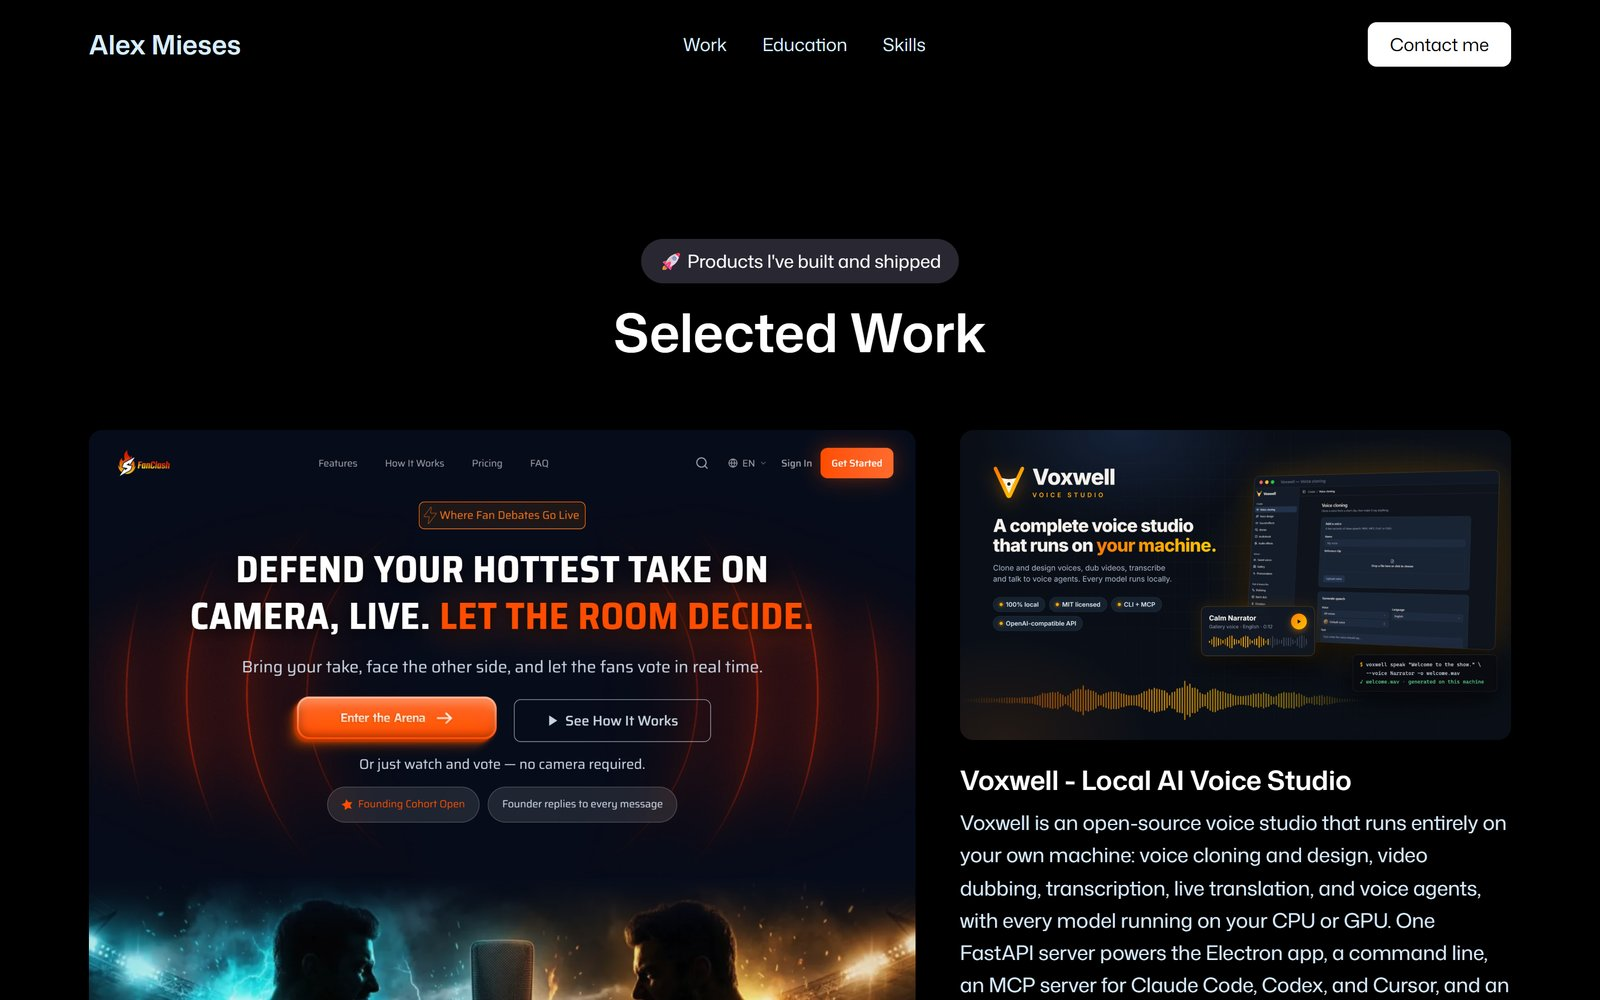
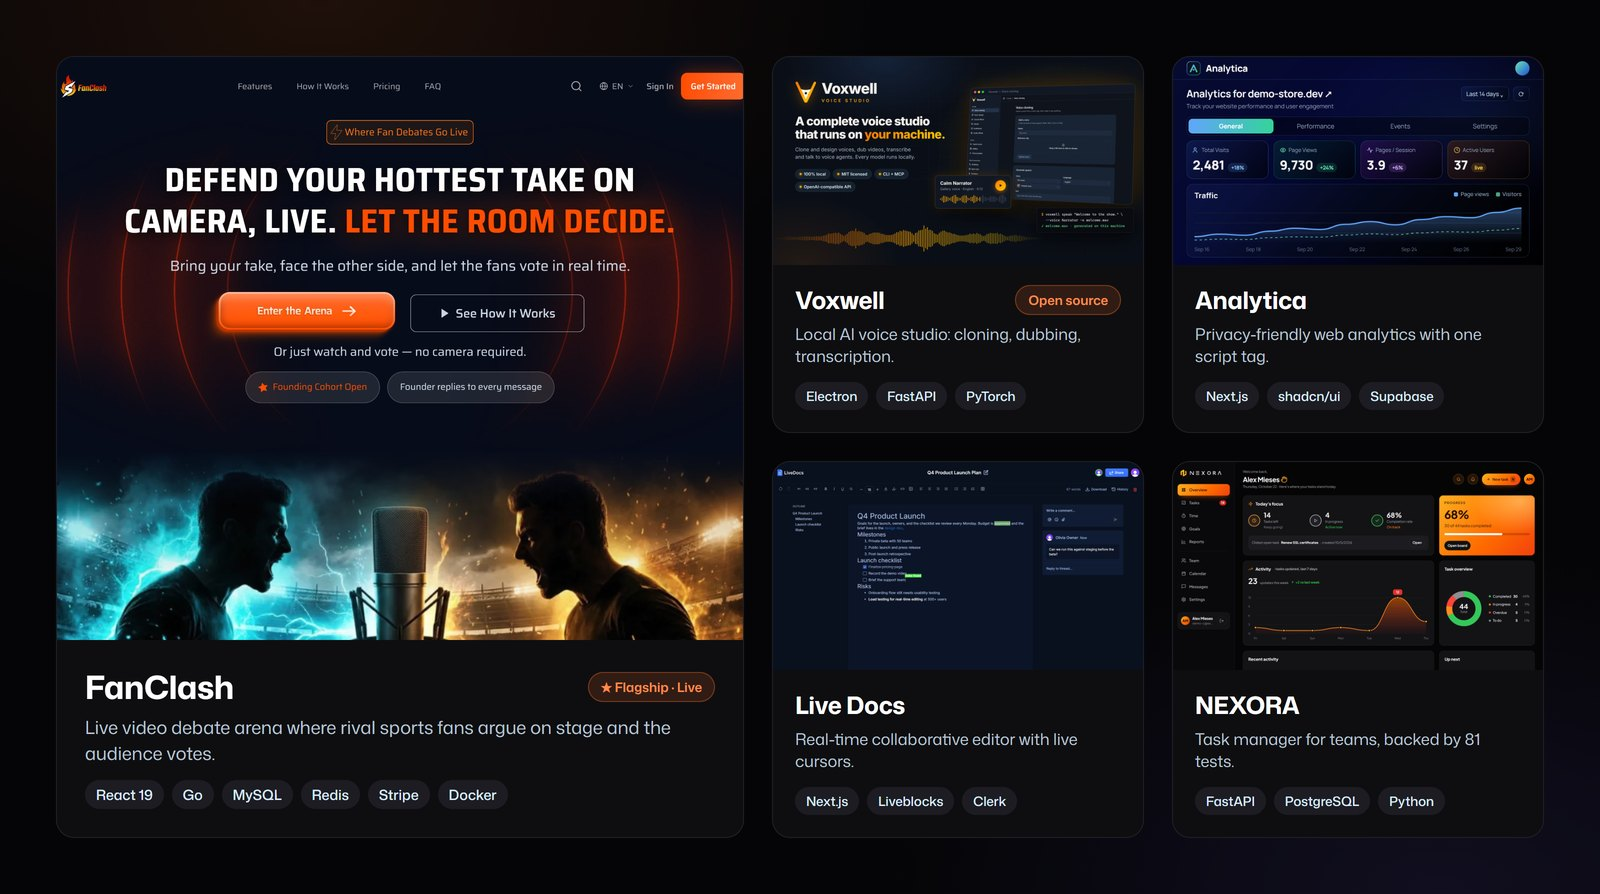
Replace the Selected Work screenshot with a project gallery
The page screenshot was mostly empty space and cut both cards off.
Show all five projects with their name, one-line description and stack.

diff --git a/README.md b/README.md
@@ -46,7 +46,7 @@ The site is a single landing page built around an interactive 3D room you can ro
 
 ## <a name="selected-work">🚀 Selected Work</a>
 
-<img src="docs/screenshot-work.jpg" alt="The Selected Work section with the FanClash and Voxwell project cards" />
+<img src="docs/screenshot-work.jpg" alt="Project gallery: FanClash as the flagship, with Voxwell, Analytica, Live Docs, and NEXORA, each showing its name, a one-line description, and its tech stack" />
 
 | Project | What it is | Stack | Links |
 |---|---|---|---|
